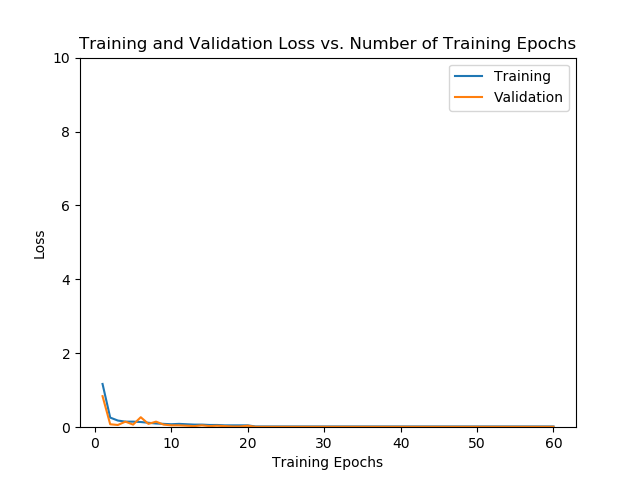
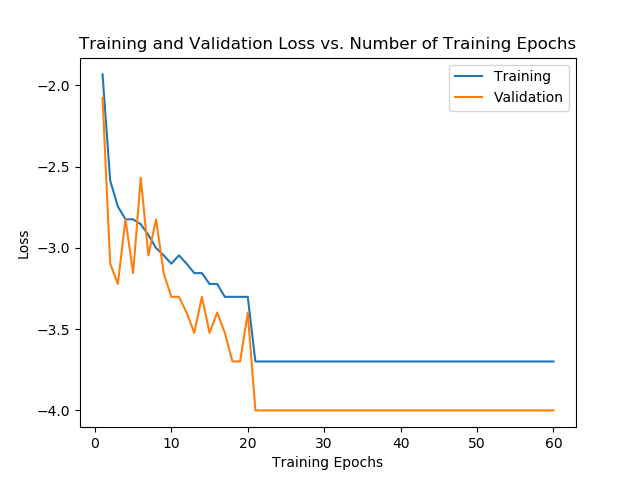
minor changes

diff --git a/lego_learning_curve.py b/lego_learning_curve.py
@@ -16,6 +16,7 @@ from torchvision import transforms, utils, datasets, models
 from lego_processing_data import MyDataset
 from PIL import Image
 # Ignore warnings
+import math
 import warnings
 warnings.filterwarnings("ignore")
 
@@ -40,14 +41,14 @@ if __name__ == "__main__":
     thist = []
     vhist = []
 
-    thist = [h * 100 for h in train_loss_hist]
-    vhist = [h * 100 for h in val_loss_hist]
+    thist = [math.log10(h) for h in train_loss_hist]
+    vhist = [math.log10(h) for h in val_loss_hist]
     plt.title("Training and Validation Loss vs. Number of Training Epochs")
     plt.xlabel("Training Epochs")
     plt.ylabel("Loss")
     plt.plot(range(1, num_epochs + 1), thist, label="Training")
     plt.plot(range(1, num_epochs + 1), vhist, label="Validation")
-    plt.ylim((0, 10.0))
+    # plt.ylim((0, 10.0))
     # plt.xticks(np.arange(1, num_epochs + 1, 1.0))
     plt.legend()
     plt.savefig("learning_curve.png")
